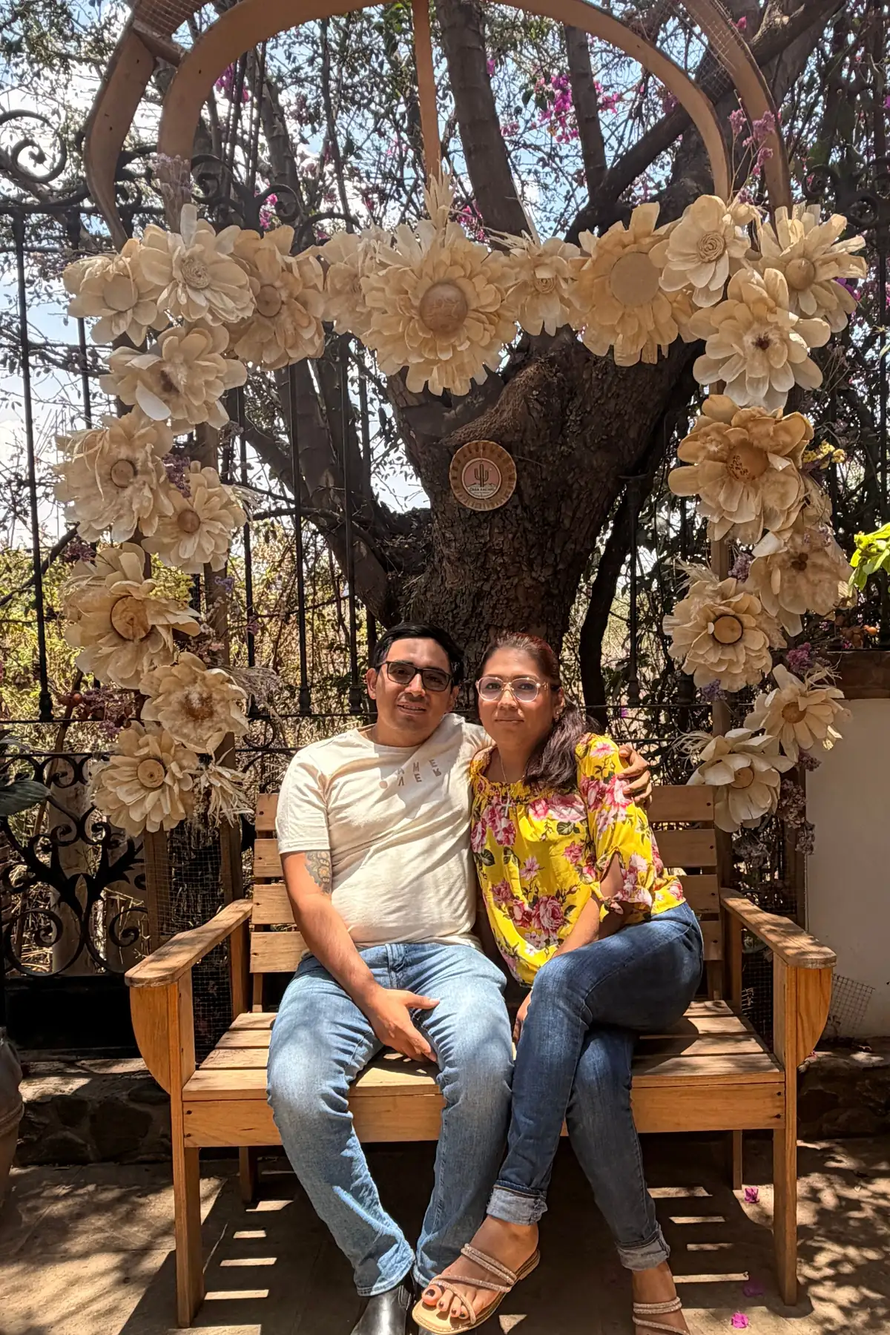
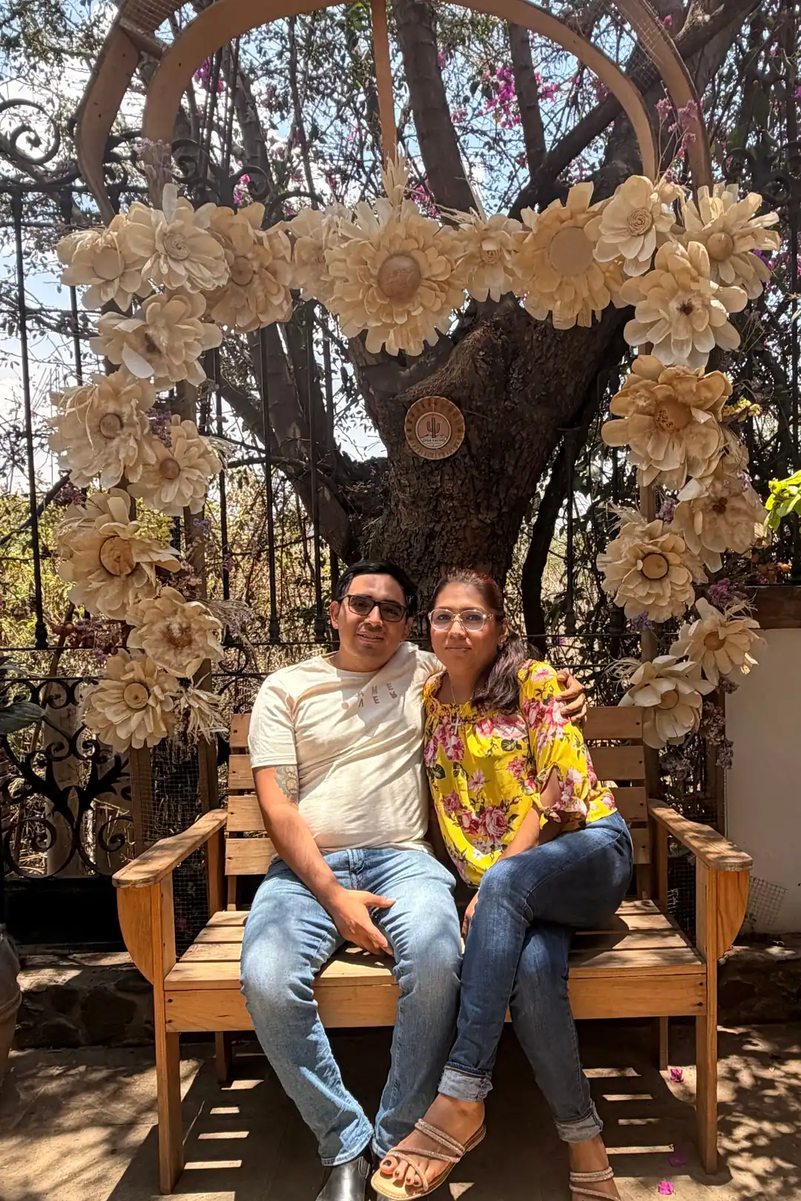
fix(invitation): fit the adriana-y-israel quote photo to its budget
Re-crop the quote background from the original at 1080x1620 so it
stays under the 220KB standard-section budget, and drop a stale,
collapsed art-slot table from the preparation record.

Changed region(s): [[0.0, 0.463, 0.0306, 0.4938]]

diff --git a/docs/invitations/adriana-y-israel.md b/docs/invitations/adriana-y-israel.md
@@ -203,9 +203,6 @@ No derivative is upscaled.
 | gallery  | #4, #5, #3, #7, #1 | `gallery-0N.webp` | no                                           |
 | OG share | #6                 | `og-share.webp`   | yes — same portrait as the cover             |
 
--------- | --------- | --------------- | ----------------------- | | hero | art:hero | `hero.webp` |
-no | | quote | art:quote | `quote.webp` | no | | OG share | art:og | `og-share.webp` | no |
-
 ---
 
 ## Implementation Constraints
